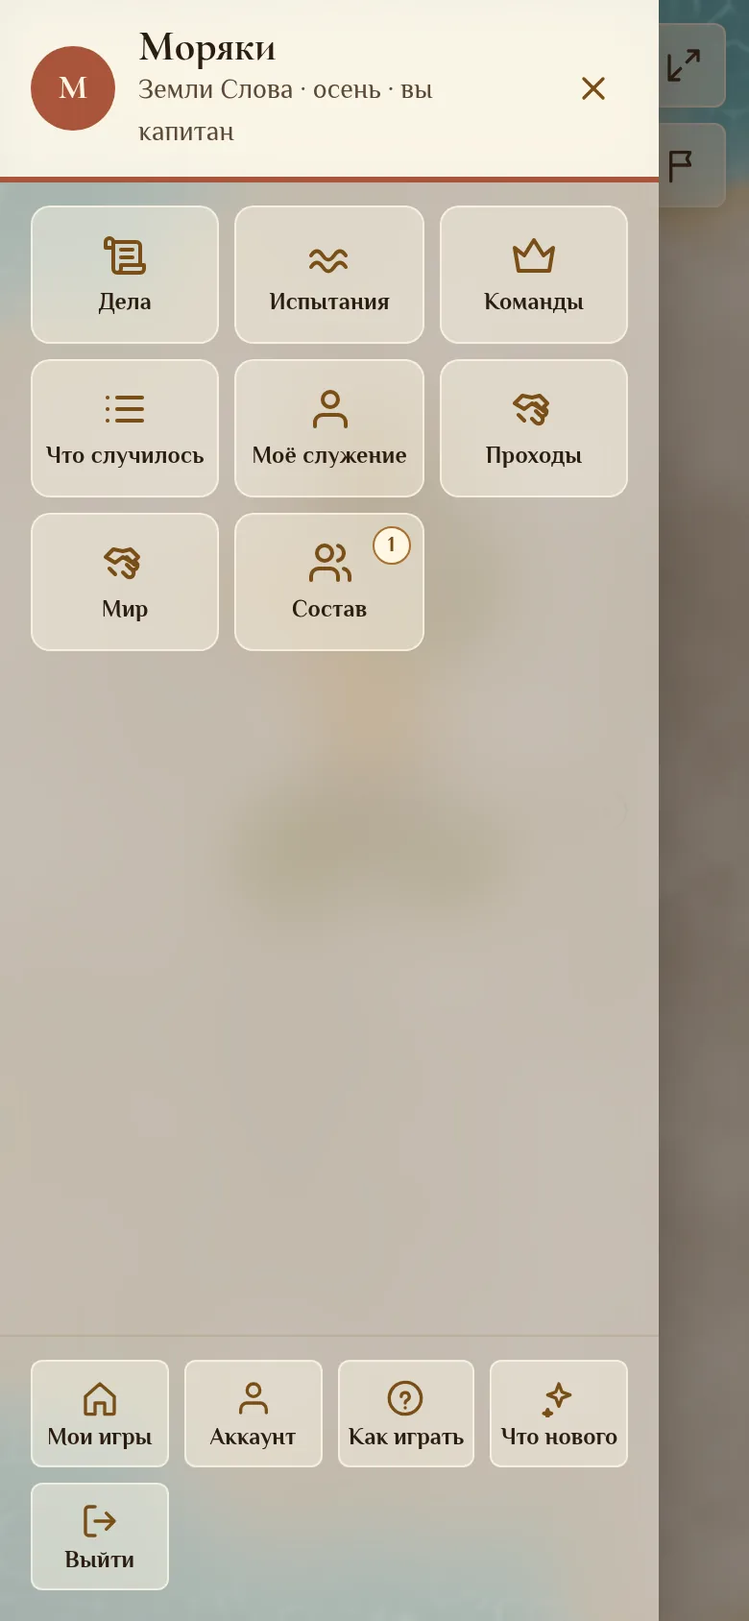
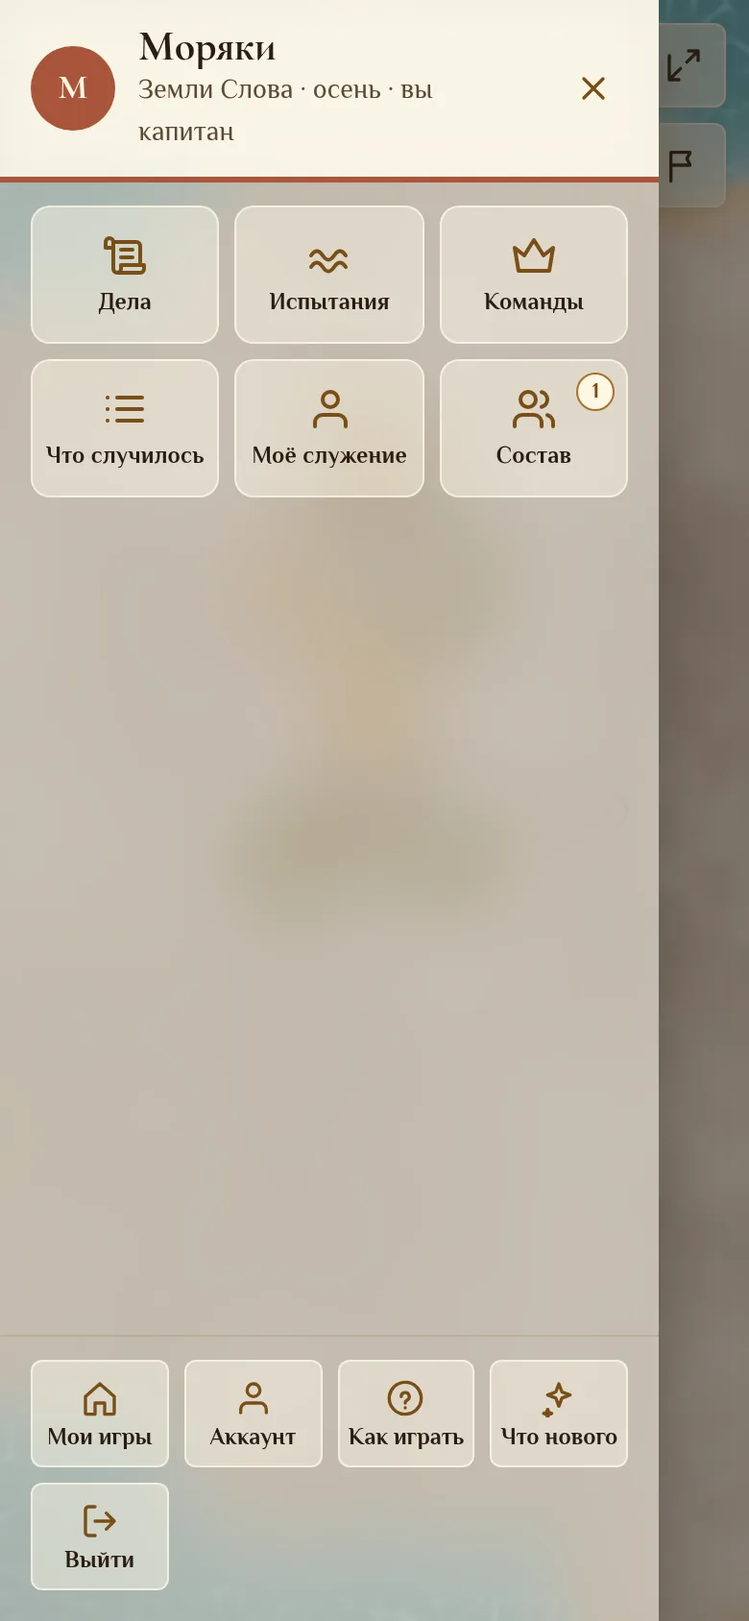
Аккаунт без карточки Google; проходы и мир внутри раздела «Команды»
- карточка «Вход через Google» в аккаунте убрана; ветка привязки (link=1) и отвязки на сервере удалены вместе с тестом — учётка с той же почтой подхватывается при входе сама
- меню команды: плитки «Проходы» и «Мир» убраны, их содержимое показывается в разделе «Команды» под таблицей; входящие запросы прохода считаются на плитке «Команды»
- тексты «Как играть», «Что нового» (RU/EN), основной документ, снимки руководства

Claude-Session: https://claude.ai/code/session_01GYZTpVpHB6EzyvMrXyiWEP

Changed region(s): [[0.0308, 0.3081, 0.5846, 0.4005], [0.6462, 0.2156, 0.7692, 0.3081], [0.7692, 0.2156, 0.8308, 0.2773]]

diff --git a/apps/web/src/lib/en/player.ts b/apps/web/src/lib/en/player.ts
@@ -61,7 +61,7 @@ export const PLAYER: Record<string, string> = {
   // Инструкция: этап 4
   "Мир. Капитан, заместитель или посол может предложить другой команде мир; та принимает или отклоняет. Пока мир действует, команды не бросают вызов городам друг друга и не объявляют осад. Мир не на срок: он действует, пока одна из сторон его не расторгнет; расторжение вступает в силу сразу, и об этом узнают все команды.": "Peace. The captain, deputy or ambassador can offer peace to another team; that team accepts or declines. While peace lasts, the teams do not challenge each other's cities and do not declare sieges. Peace has no term: it lasts until one side breaks it; the break takes effect at once, and every team learns of it.",
   "Лента «Что случилось» показывает события команды и новости обо всех испытаниях игры: кто кому бросил вызов, устоял ли город — без ставок и чисел стихов. «Моё служение» считает ваши дела, решённые районы, выученные стихи и взятые города. Раз в неделю всем приходит летопись недели. Первая команда, изучившая руины, находит знак шифра ближайшего города; над взятыми портами кружат чайки, раз в день клин птиц летит к ближайшему неоткрытому городу, дельфины сопровождают корабль.": "The “What happened” feed shows the team's events and news about every trial in the game: who challenged whom and whether the city held — without stakes or verse counts. “My service” counts your deeds, solved districts, learned verses and cities taken. Once a week everyone receives the chronicle of the week. The first team to study ruins finds a cipher sign of the nearest city; gulls circle over captured ports, once a day a wedge of birds flies to the nearest unopened city, and dolphins escort the ship.",
-  "Меню команды: лента, служение, дела, испытания, положение команд, мир, состав.": "Team menu: feed, service, deeds, trials, standings, peace, roster.",
+  "Меню команды: дела, испытания, команды, лента, служение, состав.": "Team menu: deeds, trials, teams, feed, service, roster.",
   "Доска активности в блоке «Команды» показывает, кто сколько сделал (дела, районы, стихи, города) и когда был активен. В «Летописи» — журнал событий игры и кнопка «Отправить летопись сейчас», в «Командах» — положение команд и «Книга сезона»: страница итогов для показа на собрании, её можно распечатать. В «Проверке» сдачи можно отфильтровать по команде и виду, посмотреть возраст и принять несколько однотипных разом; письма о сдачах могут приходить одним дайджестом раз в 3 часа или раз в день (продвинутые настройки).": "The activity board in the “Teams” block shows who did how much (deeds, districts, verses, cities) and when they were last active. “Overview” has the game's event log and the “Send the chronicle now” button; “Teams” has the standings and the “Season book”: a results page to show at the meeting, which can be printed. In “Review” submissions can be filtered by team and kind, their age is shown, and several of the same kind can be approved at once; submission emails can arrive as one digest every 3 hours or once a day (advanced settings).",
   // Журнал событий (этап 4 решений 18.09): лента, новости, «Моё служение», мир, доска активности, «Книга сезона»
   "Что случилось": "What happened", "Пока тихо: первые события появятся, когда команда возьмёт дело.": "Quiet so far: the first events appear when the team takes a deed.",
@@ -164,7 +164,7 @@ export const PLAYER: Record<string, string> = {
   "Конверт: когда все районы решены, печать собрана. Назовите шифр адресату, к которому вас направила игра, и получите конверт с ключом. Введите ключ в ячейки и сломайте сургуч — город ваш; неверный ключ царапает печать и ставит такую же растущую паузу. Первый взятый город — столица команды; один раз за игру капитан может тайно перенести столицу, но не пока на неё брошен вызов.": "Envelope: when all districts are solved, the seal is complete. Tell the cipher to the recipient the game sent you to and get the envelope with the key. Enter the key into the cells and break the wax — the city is yours; a wrong key scratches the seal and sets the same growing pause. The first city taken is the team's capital; once per game the captain can secretly move the capital, but not while it is under challenge.",
   "Страница города: замок с кольцами на шаге «Порядок», дальше районы с печатью и конверт.": "City page: the lock with rings at the “Order” step, then the districts with the seal and the envelope.",
   "Роли и меню команды": "Roles and the team menu",
-  "В меню команды: наши дела, испытания, положение команд, проходы, состав с ролями. Включите уведомления в аккаунте, чтобы не пропустить проверку дела, испытание или запрос прохода.": "In the team menu: our deeds, trials, standings, passages, the roster with roles. Turn notifications on in your account so you do not miss a deed review, a trial or a passage request.",
+  "В меню команды: наши дела, испытания, команды (положение, проходы, мир), состав с ролями. Включите уведомления в аккаунте, чтобы не пропустить проверку дела, испытание или запрос прохода.": "In the team menu: our deeds, trials, teams (standings, passages, peace), the roster with roles. Turn notifications on in your account so you do not miss a deed review, a trial or a passage request.",
   "Меню команды: дела, испытания, положение команд, состав.": "Team menu: deeds, trials, standings, roster.",
   "Для администратора": "For the administrator",
   "Администратор создаёт игру, генерирует карту (можно сколько угодно раз, пока не понравится), создаёт команды и раздаёт ссылки-приглашения капитанам и участникам, заполняет набор дел (есть стандартный) и стартует игру.": "The administrator creates the game, generates the map (as many times as needed until it looks right), creates teams and hands out invitation links to captains and members, fills in the set of deeds (a default set is available) and starts the game.",

diff --git a/apps/web/src/lib/en/changelog.ts b/apps/web/src/lib/en/changelog.ts
@@ -1,13 +1,13 @@
 /** EN-строки раздела «Что нового». Ключ — русская строка из content/changelog.ts. */
 export const CHANGELOG_EN: Record<string, string> = {
-  "Меню команды стало короче: наверху только то, что требует внимания (возвращённое дело, запрос прохода, ваш ход в испытании), остальное — значки разделов: Дела, Испытания, Команды, Что случилось, Моё служение, Проходы, Мир, Состав. Переключатель уведомлений — на странице аккаунта. Шапка меню больше не просвечивает при прокрутке.": "The team menu is shorter: at the top only what needs attention (a returned deed, a passage request, your move in a trial), the rest are section icons: Deeds, Trials, Teams, What happened, My service, Passages, Peace, Roster. The notifications switch is on the account page. The menu head no longer shows content through it when scrolling.",
+  "Меню команды стало короче: наверху только то, что требует внимания (возвращённое дело, запрос прохода, ваш ход в испытании), остальное — значки разделов: Дела, Испытания, Команды (положение, проходы, мир), Что случилось, Моё служение, Состав. Переключатель уведомлений — на странице аккаунта, карточки «привязать Google» там больше нет. Шапка меню больше не просвечивает при прокрутке.": "The team menu is shorter: at the top only what needs attention (a returned deed, a passage request, your move in a trial), the rest are section icons: Deeds, Trials, Teams (standings, passages, peace), What happened, My service, Roster. The notifications switch is on the account page, and the “link Google” card is gone from there. The menu head no longer shows content through it when scrolling.",
   "Раздел «Обзор» переименован в «Летопись» со значком пера; кнопки разделов и кнопки карты стали стеклянными.": "The “Overview” section is renamed “Chronicle” with a feather icon; the section buttons and map buttons are glass now.",
   "Разделы администратора: «Сейчас» убран (то же видно на кнопке «Проверка»); срок окончания, «Завершить игру» и адресаты конвертов переехали в «Настройки»; после сохранения срока показывается только дата с карандашом для правки.": "Administrator's sections: “Now” is removed (the “Review” button shows the same); the deadline, “Finish the game” and envelope recipients moved to “Settings”; after saving the deadline only the date is shown, with a pencil to edit it.",
   "Срок окончания игры задаётся без ввода по формату: дни и час со стрелками, быстрые сроки (2 недели, месяц, 6 недель, 2 месяца) и календарь по кнопке.": "The game end is set without typing a format: days and hour with arrows, quick terms (2 weeks, a month, 6 weeks, 2 months) and a calendar behind a button.",
   "У игроков тоже стекло: боковое меню команды, лист дела, город и испытание просвечивают карту сквозь размытие.": "Players get glass too: the team side menu, the deed sheet, the city and the trial show the map through a blur.",
   "Разделы администратора над картой стали настоящим стеклом: карта просвечивает сквозь попап и блоки внутри него.": "The administrator's sections over the map are now real glass: the map shows through the pop-up and the blocks inside it.",
   "Карта администратора: переключатель «чьими глазами» стал рядом кружков (корона и команды, имя по наведению), история ходов — одной плашкой «Сейчас · N ходов», которая раскрывается стрелками и ползунком по нажатию.": "Administrator's map: the “whose view” switch is now a row of circles (crown and teams, name on hover), and the move history is a single “Now · N moves” pill that expands into arrows and a slider on tap.",
-  "Вход через Google: кнопка на входе и в регистрации, почта подтверждается сразу, остаётся выбрать ник; в аккаунте можно привязать или отвязать Google. Появилась страница «О персональных данных».": "Sign in with Google: a button on the sign-in and sign-up screens, the email is confirmed at once and only a nickname remains to pick; Google can be linked or unlinked in the account. A new “About personal data” page.",
+  "Вход через Google: кнопка на входе и в регистрации, почта подтверждается сразу, остаётся выбрать ник. Появилась страница «О персональных данных».": "Sign in with Google: a button on the sign-in and sign-up screens, the email is confirmed at once and only a nickname remains to pick. A new “About personal data” page.",
   "Числовые поля (команды, перекрёстки, расстояние, ставки правил, пожертвование) стали числом со стрелками вверх/вниз вместо обычного поля.": "Numeric fields (teams, crossings, distance, rule values, donation) are now a number with up/down arrows instead of a plain field.",
   "Поле «Церковь» убрано отовсюду: игра создаётся по одному названию, команды могут быть сборными; название церкви больше не показывается на главной, в приглашении и в «Книге сезона».": "The “Church” field is gone everywhere: a game is created by its name only, teams can be mixed; the church name is no longer shown on the home page, in the invitation or in the season book.",
   "Стекло с размытием везде на страницах под шапкой: аналитика, новая игра, аккаунт; попапы разделов администратора и диалоги подтверждения тоже стеклянные. Страница игры без карты — на пейзаже с главной, а не на тёмном поле.": "Glass with blur on every page under the header: analytics, new game, account; the administrator's section pop-ups and confirmation dialogs are glass too. A game page without a map sits on the home landscape instead of a dark field.",

diff --git a/apps/api/src/routes/google.ts b/apps/api/src/routes/google.ts
@@ -3,7 +3,7 @@ import bcrypt from "bcryptjs";
 import { z } from "zod";
 import { createHmac, randomBytes, timingSafeEqual } from "node:crypto";
 import { prisma } from "../db.js";
-import { createSession, publicUser, requireUser } from "../auth.js";
+import { createSession, publicUser } from "../auth.js";
 import { err } from "../services/i18n.js";
 import { exchangeCode, GOOGLE_AUTH_URL, verifyIdToken } from "../services/google.js";
 
@@ -12,7 +12,6 @@ import { exchangeCode, GOOGLE_AUTH_URL, verifyIdToken } from "../services/google
  * Храним только почту и идентификатор Google (sub): имя и фото не запрашиваем. Вход по никнейму и паролю остаётся.
  *
  * Поток: GET /api/auth/google → Google → GET /api/auth/google/callback. Дальше три случая:
- *  - вошедший пользователь привязывает Google к своей учётке (link=1) → /account?google=linked|taken;
  *  - учётка найдена по sub или по почте → сессия, почта считается подтверждённой (её подтвердил Google);
  *  - учётки нет → короткоживущий cookie с почтой и sub, страница /google/nickname → POST /api/auth/google/complete.
  */
@@ -24,10 +23,10 @@ const ISSUERS = new Set(["accounts.google.com", "https://accounts.google.com"]);
 
 const nickname = z.string().trim().min(3).max(24).regex(/^[\p{L}\p{N}_-]+$/u, "Только буквы, цифры, _ и -");
 const completeBody = z.object({ nickname, locale: z.enum(["ru", "en"]).optional() });
-const stateQuery = z.object({ next: z.string().max(500).optional(), link: z.string().optional() });
+const stateQuery = z.object({ next: z.string().max(500).optional() });
 const callbackQuery = z.object({ code: z.string().optional(), state: z.string().optional(), error: z.string().optional() });
 
-interface StateData { s: string; next: string; link: boolean }
+interface StateData { s: string; next: string }
 interface PendingData { sub: string; email: string; exp: number }
 
 /** Только путь на нашем сайте: начинается с «/», но не «//» (иначе это адрес другого сайта). */
@@ -73,7 +72,7 @@ export async function googleRoutes(app: FastifyInstance): Promise<void> {
     if (!enabled) return reply.code(404).send({ error: "not_configured", message: err(request, "Вход через Google не настроен") });
     const q = stateQuery.parse(request.query ?? {});
     const state = randomBytes(32).toString("base64url");
-    const data: StateData = { s: state, next: safeNext(q.next), link: q.link === "1" && Boolean(request.user) };
+    const data: StateData = { s: state, next: safeNext(q.next) };
     reply.setCookie(STATE_COOKIE, JSON.stringify(data), { ...cookieBase, signed: true, maxAge: STATE_TTL_MS / 1000 });
     const url = new URL(GOOGLE_AUTH_URL);
     url.searchParams.set("client_id", cfg.GOOGLE_CLIENT_ID!);
@@ -94,7 +93,7 @@ export async function googleRoutes(app: FastifyInstance): Promise<void> {
     const unsigned = raw ? request.unsignCookie(raw) : null;
     let st: StateData | null = null;
     try { st = unsigned?.valid && unsigned.value ? (JSON.parse(unsigned.value) as StateData) : null; } catch { st = null; }
-    const fail = (code: string) => reply.redirect(`${st?.link ? "/account" : "/login"}?google=${code}`, 302);
+    const fail = (code: string) => reply.redirect(`/login?google=${code}`, 302);
     if (!st || !q.state || q.state !== st.s) return fail("state");
     if (!q.code) return fail("error");
 
@@ -112,16 +111,7 @@ export async function googleRoutes(app: FastifyInstance): Promise<void> {
       return fail("error");
     }
 
-    // а) Привязка к текущей учётке.
-    if (st.link && request.user) {
-      const me = request.user;
-      const other = await prisma.user.findFirst({ where: { NOT: { id: me.id }, OR: [{ googleId: sub }, { email: { equals: email, mode: "insensitive" } }] } });
-      if (other) return reply.redirect("/account?google=taken", 302);
-      await prisma.user.update({ where: { id: me.id }, data: { googleId: sub, ...(me.email ? {} : { email, emailVerified: true }) } });
-      return reply.redirect("/account?google=linked", 302);
-    }
-
-    // б) Учётка уже есть: по sub или по почте (Google подтвердил, что почта принадлежит человеку).
+    // а) Учётка уже есть: по sub или по почте (Google подтвердил, что почта принадлежит человеку).
     let user = await prisma.user.findUnique({ where: { googleId: sub } });
     if (!user) {
       const byEmail = await prisma.user.findFirst({ where: { email: { equals: email, mode: "insensitive" } } });
@@ -132,7 +122,7 @@ export async function googleRoutes(app: FastifyInstance): Promise<void> {
       return reply.redirect(st.next, 302);
     }
 
-    // в) Учётки нет: осталось выбрать никнейм.
+    // б) Учётки нет: осталось выбрать никнейм.
     const pending: PendingData = { sub, email, exp: Date.now() + PENDING_TTL_MS };
     reply.setCookie(PENDING_COOKIE, sign(cfg.SESSION_SECRET, pending), { ...cookieBase, maxAge: PENDING_TTL_MS / 1000 });
     return reply.redirect("/google/nickname", 302);
@@ -170,11 +160,5 @@ export async function googleRoutes(app: FastifyInstance): Promise<void> {
     clearPending(reply);
     await createSession(reply, user.id, secure);
     return reply.code(201).send({ user: publicUser(user) });
-  });
-
-  /** Отвязать Google от учётки. Вход по паролю остаётся (если пароля не было — задать через «Забыли пароль?»). */
-  app.delete("/api/auth/google", { preHandler: requireUser }, async (request) => {
-    const user = await prisma.user.update({ where: { id: request.user!.id }, data: { googleId: null } });
-    return { user: publicUser(user) };
   });
 }

diff --git a/apps/web/src/pages/TeamPage.tsx b/apps/web/src/pages/TeamPage.tsx
@@ -58,16 +58,14 @@ export function finishReasonLabel(reason: string | null): string {
   return reason === "last_team" ? t("осталась одна команда") : reason === "time_limit" ? t("вышел срок") : t("завершена администратором");
 }
 
-/** Разделы меню команды (решение владельца 21.09): на главном экране меню — только то, что требует внимания, и значки разделов. */
-type MenuView = "home" | "deeds" | "battles" | "standings" | "feed" | "service" | "passages" | "peace" | "roster";
+/** Разделы меню команды (решение владельца 21.09): на главном экране меню — только то, что требует внимания, и значки разделов. Проходы и мир — внутри «Команд». */
+type MenuView = "home" | "deeds" | "battles" | "standings" | "feed" | "service" | "roster";
 const MENU_ITEMS: Array<{ key: Exclude<MenuView, "home">; icon: string; label: () => string; hot?: boolean }> = [
   { key: "deeds", icon: "scroll", label: () => t("Дела") },
   { key: "battles", icon: "wave", label: () => t("Испытания"), hot: true },
-  { key: "standings", icon: "crown", label: () => t("Команды") },
+  { key: "standings", icon: "crown", label: () => t("Команды"), hot: true },
   { key: "feed", icon: "list", label: () => t("Что случилось") },
   { key: "service", icon: "user", label: () => t("Моё служение") },
-  { key: "passages", icon: "handshake", label: () => t("Проходы"), hot: true },
-  { key: "peace", icon: "handshake", label: () => t("Мир") },
   { key: "roster", icon: "users", label: () => t("Состав") },
 ];
 
@@ -331,7 +329,7 @@ export function TeamPage() {
   const attention = ourTasks.filter((tk) => tk.status === "REJECTED").length + incoming.length + activeBattles.filter((b) => isMyTurn(b, team.id)).length;
   const rejectedTasks = ourTasks.filter((tk) => tk.status === "REJECTED");
   const myTurnBattles = activeBattles.filter((b) => isMyTurn(b, team.id));
-  const menuCounts: Partial<Record<MenuView, number>> = { deeds: ourTasks.length, battles: activeBattles.length, passages: incoming.length, roster: team.members?.length ?? 0 };
+  const menuCounts: Partial<Record<MenuView, number>> = { deeds: ourTasks.length, battles: activeBattles.length, standings: incoming.length, roster: team.members?.length ?? 0 };
 
   const onTouchStart = (e: React.TouchEvent) => {
     if (wide) return;
@@ -380,7 +378,7 @@ export function TeamPage() {
                       </li>
                     ))}
                     {incoming.map((r) => (
-                      <li key={r.id} role="button" tabIndex={0} onClick={() => setMenuView("passages")} onKeyDown={(e) => { if (e.key === "Enter" || e.key === " ") { e.preventDefault(); setMenuView("passages"); } }}>
+                      <li key={r.id} role="button" tabIndex={0} onClick={() => setMenuView("standings")} onKeyDown={(e) => { if (e.key === "Enter" || e.key === " ") { e.preventDefault(); setMenuView("standings"); } }}>
                         <div className="main"><span className="title">{t("Запрос прохода через {book}", { book: r.bookName })}</span><span className="meta">{t("от команды «{team}»", { team: r.requester.name })}</span></div><Icon name="chevron" className="chev" />
                       </li>
                     ))}
@@ -443,13 +441,12 @@ export function TeamPage() {
             <section className="section">
             <StandingsList standings={standings} teamId={team.id} open={openStanding} setOpen={setOpenStanding} />
             {standings?.status === "ACTIVE" && standings.endsAt && <p className="hint">{t("Игра идёт до {d}", { d: fmtDate(standings.endsAt) })}</p>}
-          
             </section>
           )}
+          {menuView === "standings" && <DiplomacyMenu gameId={id} data={passages} onChanged={() => { void loadPassages(); void loadMap(); }} />}
+          {menuView === "standings" && <PeaceSection gameId={id} version={feedVersion} />}
           {menuView === "feed" && <FeedSection gameId={id} version={feedVersion} />}
           {menuView === "service" && <MyServiceSection gameId={id} version={feedVersion} />}
-          {menuView === "passages" && <DiplomacyMenu gameId={id} data={passages} onChanged={() => { void loadPassages(); void loadMap(); }} />}
-          {menuView === "peace" && <PeaceSection gameId={id} version={feedVersion} />}
           {menuView === "roster" && <section className="section"><Roster team={team} isCaptain={isCaptain} onRole={setGameRole} onDeputy={setDeputy} /></section>}
           {menuView === "home" && (
             <nav className="menu-tiles" aria-label={t("Навигация")}>

diff --git a/apps/web/src/pages/HowToPlayPage.tsx b/apps/web/src/pages/HowToPlayPage.tsx
@@ -63,9 +63,9 @@ export function HowToPlayPage() {
     { icon: "users", title: t("Роли и меню команды"), paras: [
       t("Капитан бросает вызов и отвечает на испытания, переносит столицу, назначает заместителя и просит роли для участников; роли утверждает администратор, менять их можно раз в неделю. Заместитель может всё то же, кроме ролей. Разведчик раз в неделю узнаёт, что за стороной. Пророк раз в неделю открывает подсказку к любому заданию, и видит её только он: команда спрашивает у пророка. Посол ведёт переговоры о проходах. Летописец сдаёт дела за команду. Кормчий выбирает место высадки на другом острове."),
       t("Взятое дело, не сданное за две недели, само возвращается в общий список. На карте видны чужие проходы там, где у вас открыт туман: сторона, пройденная двумя командами, окрашена пополам."),
-      t("В меню команды: наши дела, испытания, положение команд, проходы, состав с ролями. Включите уведомления в аккаунте, чтобы не пропустить проверку дела, испытание или запрос прохода."),
+      t("В меню команды: наши дела, испытания, команды (положение, проходы, мир), состав с ролями. Включите уведомления в аккаунте, чтобы не пропустить проверку дела, испытание или запрос прохода."),
       t("Лента «Что случилось» показывает события команды и новости обо всех испытаниях игры: кто кому бросил вызов, устоял ли город — без ставок и чисел стихов. «Моё служение» считает ваши дела, решённые районы, выученные стихи и взятые города. Раз в неделю всем приходит летопись недели. Первая команда, изучившая руины, находит знак шифра ближайшего города; над взятыми портами кружат чайки, раз в день клин птиц летит к ближайшему неоткрытому городу, дельфины сопровождают корабль."),
-    ], figs: [{ src: "menu", caption: t("Меню команды: лента, служение, дела, испытания, положение команд, мир, состав.") }] },
+    ], figs: [{ src: "menu", caption: t("Меню команды: дела, испытания, команды, лента, служение, состав.") }] },
     { icon: "crown", title: t("Для администратора"), paras: [
       t("Администратор создаёт игру, генерирует карту (можно сколько угодно раз, пока не понравится), создаёт команды и раздаёт ссылки-приглашения капитанам и участникам, заполняет набор дел (есть стандартный) и стартует игру."),
       t("У администратора карта во весь экран, а разделы — кнопки сбоку (на телефоне снизу): Летопись, Команды, Дела, Проверка, Настройки; нажатие открывает раздел над картой. Во время игры администратор проверяет сдачи дел и видео испытаний в «Проверке», следит за положением команд в «Обзоре» и на карте, при необходимости назначает города и завершает игру."),

diff --git a/apps/web/src/content/changelog.ts b/apps/web/src/content/changelog.ts
@@ -6,14 +6,14 @@ export interface ChangeDay { date: string; items: string[] }
 
 export const CHANGELOG: ChangeDay[] = [
   { date: "2026-09-21", items: [
-    "Меню команды стало короче: наверху только то, что требует внимания (возвращённое дело, запрос прохода, ваш ход в испытании), остальное — значки разделов: Дела, Испытания, Команды, Что случилось, Моё служение, Проходы, Мир, Состав. Переключатель уведомлений — на странице аккаунта. Шапка меню больше не просвечивает при прокрутке.",
+    "Меню команды стало короче: наверху только то, что требует внимания (возвращённое дело, запрос прохода, ваш ход в испытании), остальное — значки разделов: Дела, Испытания, Команды (положение, проходы, мир), Что случилось, Моё служение, Состав. Переключатель уведомлений — на странице аккаунта, карточки «привязать Google» там больше нет. Шапка меню больше не просвечивает при прокрутке.",
     "Раздел «Обзор» переименован в «Летопись» со значком пера; кнопки разделов и кнопки карты стали стеклянными.",
     "Разделы администратора: «Сейчас» убран (то же видно на кнопке «Проверка»); срок окончания, «Завершить игру» и адресаты конвертов переехали в «Настройки»; после сохранения срока показывается только дата с карандашом для правки.",
     "Срок окончания игры задаётся без ввода по формату: дни и час со стрелками, быстрые сроки (2 недели, месяц, 6 недель, 2 месяца) и календарь по кнопке.",
     "У игроков тоже стекло: боковое меню команды, лист дела, город и испытание просвечивают карту сквозь размытие.",
     "Разделы администратора над картой стали настоящим стеклом: карта просвечивает сквозь попап и блоки внутри него.",
     "Карта администратора: переключатель «чьими глазами» стал рядом кружков (корона и команды, имя по наведению), история ходов — одной плашкой «Сейчас · N ходов», которая раскрывается стрелками и ползунком по нажатию.",
-    "Вход через Google: кнопка на входе и в регистрации, почта подтверждается сразу, остаётся выбрать ник; в аккаунте можно привязать или отвязать Google. Появилась страница «О персональных данных».",
+    "Вход через Google: кнопка на входе и в регистрации, почта подтверждается сразу, остаётся выбрать ник. Появилась страница «О персональных данных».",
   ] },
   { date: "2026-09-20", items: [
     "Числовые поля (команды, перекрёстки, расстояние, ставки правил, пожертвование) стали числом со стрелками вверх/вниз вместо обычного поля.",

diff --git a/apps/web/src/pages/AccountPage.tsx b/apps/web/src/pages/AccountPage.tsx
@@ -1,5 +1,5 @@
 import { useEffect, useState, type FormEvent } from "react";
-import { Link, useSearchParams } from "react-router-dom";
+import { Link } from "react-router-dom";
 import { api, type User } from "../lib/api";
 import { useAuth } from "../lib/auth";
 import { useUi } from "../lib/ui";
@@ -11,8 +11,7 @@ import { Chip } from "../components/Chip";
 import { CopyField } from "../components/CopyField";
 import { Help } from "../components/Help";
 import { PushToggle } from "../components/PushToggle";
-import { GoogleMark } from "../components/GoogleMark";
-import { errorText, useProviders } from "./LoginPage";
+import { errorText } from "./LoginPage";
 
 /** Аккаунт: имя в команде, почта, язык; смена пароля; уведомления. Никнейм не меняется. У каждой формы своя ошибка. */
 export function AccountPage() {
@@ -78,7 +77,6 @@ export function AccountPage() {
         </form>
       </div>
 
-      <GoogleCard user={user} />
       <PushToggle />
       {user.platformRole === "SUPERADMIN" && <><MailTest /><ResetLinkTool /></>}
       <p className="muted small center mt-4"><Link to="/privacy">{t("О персональных данных")}</Link></p>
@@ -86,49 +84,6 @@ export function AccountPage() {
   );
 }
 
-/**
- * Вход через Google: привязать (переход на /api/auth/google?link=1, сервер вернёт ?google=linked|taken) или отвязать.
- * Показывается, только если Google настроен на сервере. Из Google хранится только почта.
- */
-function GoogleCard({ user }: { user: User }) {
-  const { refresh } = useAuth();
-  const ui = useUi();
-  const providers = useProviders();
-  const [params, setParams] = useSearchParams();
-  const [busy, setBusy] = useState(false);
-  const result = params.get("google");
-  useEffect(() => {
-    if (!result) return;
-    if (result === "linked") { ui.notify(t("Google привязан")); void refresh(); }
-    else if (result === "taken") ui.notify(t("Эта учётка Google уже привязана к другому аккаунту"), "bad");
-    else ui.notify(t("Не удалось привязать Google, попробуйте ещё раз"), "bad");
-    setParams({}, { replace: true });
-  }, [result, ui, refresh, setParams]);
-  if (!providers?.google) return null;
-  async function unlink() {
-    setBusy(true);
-    try { await api("/api/auth/google", { method: "DELETE" }); await refresh(); ui.notify(t("Google отвязан")); }
-    catch (e) { ui.notify(errorText(e), "bad"); }
-    finally { setBusy(false); }
-  }
-  return (
-    <div className="card">
-      <h2><span className="ico"><GoogleMark /></span>{t("Вход через Google")}</h2>
-      {user.googleLinked ? (
-        <>
-          <p className="mt-3">{t("Google привязан: {email}", { email: user.email ?? "" })}</p>
-          <p className="hint">{t("Вход по никнейму и паролю тоже работает. После отвязки войти можно будет только по паролю.")}</p>
-          <div className="actions"><button type="button" className="secondary" disabled={busy} onClick={() => void unlink()}>{t("Отвязать")}</button></div>
-        </>
-      ) : (
-        <>
-          <p className="hint">{t("Привяжите Google, чтобы входить одной кнопкой. Из Google мы храним только почту.")}</p>
-          <div className="actions"><a className="btn secondary google-btn" href="/api/auth/google?link=1"><GoogleMark />{t("Привязать Google")}</a></div>
-        </>
-      )}
-    </div>
-  );
-}
 
 /** Суперадмин: проверка почты (SMTP) тестовым письмом себе. */
 function MailTest() {

diff --git a/apps/api/src/google.test.ts b/apps/api/src/google.test.ts
@@ -18,7 +18,7 @@ const plain = await buildApp({ NODE_ENV: "test", SESSION_SECRET: "test-secret-pl
 const app = await buildApp({ NODE_ENV: "test", SESSION_SECRET: "test-secret-please", GOOGLE_CLIENT_ID: CLIENT_ID, GOOGLE_CLIENT_SECRET: "test-client-secret" });
 // Никнейм не длиннее 24 символов, поэтому хвост из времени укорочен.
 const nick = "gt_" + String(Date.now()).slice(-8);
-const subs = { fresh: `sub_${nick}_1`, byMail: `sub_${nick}_2`, link: `sub_${nick}_3` };
+const subs = { fresh: `sub_${nick}_1`, byMail: `sub_${nick}_2` };
 
 beforeAll(async () => { await plain.ready(); await app.ready(); });
 afterAll(async () => {
@@ -163,38 +163,5 @@ describe("вход через Google", () => {
     expect((await prisma.user.findUniqueOrThrow({ where: { googleId: subs.byMail } })).nickname).toBe(n2);
     // Вход по паролю остаётся.
     expect((await app.inject({ method: "POST", url: "/api/auth/login", payload: { nickname: n2, password: "secret123" } })).statusCode).toBe(200);
-  });
-
-  it("привязка из аккаунта (link=1): linked, занятый sub — taken, отвязка — DELETE", async () => {
-    const n3 = `${nick}_link`;
-    const reg = await registerVerified(app, { nickname: n3, password: "secret123" });
-    expect(reg.statusCode).toBe(201);
-    const session = cookiesOf(reg);
-    expect((await app.inject({ method: "GET", url: "/api/auth/me", headers: { cookie: session } })).json().user.googleLinked).toBe(false);
-    // Google-почта отличается от почты учётки: привязывается по sub, почта в учётке не меняется.
-    const { state, cookie } = await start("?link=1", session);
-    googleSays(subs.link, `${n3}_google@example.com`);
-    const cb = await app.inject({ method: "GET", url: `/api/auth/google/callback?code=c&state=${state}`, headers: { cookie } });
-    expect(cb.headers.location).toBe("/account?google=linked");
-    const me = await app.inject({ method: "GET", url: "/api/auth/me", headers: { cookie: session } });
-    expect(me.json().user).toMatchObject({ googleLinked: true, email: `${n3}@example.com` });
-    // Другая учётка пытается привязать тот же Google — занято.
-    const n4 = `${nick}_link2`;
-    const reg4 = await registerVerified(app, { nickname: n4, password: "secret123" });
-    expect(reg4.statusCode).toBe(201);
-    const session4 = cookiesOf(reg4);
-    const s4 = await start("?link=1", session4);
-    googleSays(subs.link, `${n3}_google@example.com`);
-    expect((await app.inject({ method: "GET", url: `/api/auth/google/callback?code=c&state=${s4.state}`, headers: { cookie: s4.cookie } })).headers.location).toBe("/account?google=taken");
-    expect((await app.inject({ method: "GET", url: "/api/auth/me", headers: { cookie: session4 } })).json().user.googleLinked).toBe(false);
-    // Ошибка state в режиме привязки ведёт в аккаунт.
-    const s5 = await start("?link=1", session4);
-    expect((await app.inject({ method: "GET", url: "/api/auth/google/callback?code=c&state=wrong", headers: { cookie: s5.cookie } })).headers.location).toBe("/account?google=state");
-    // Отвязка.
-    expect((await app.inject({ method: "DELETE", url: "/api/auth/google" })).statusCode).toBe(401);
-    const del = await app.inject({ method: "DELETE", url: "/api/auth/google", headers: { cookie: session } });
-    expect(del.statusCode).toBe(200);
-    expect(del.json().user.googleLinked).toBe(false);
-    expect(await prisma.user.findUnique({ where: { googleId: subs.link } })).toBeNull();
   });
 });

diff --git a/apps/web/src/lib/en/guest.ts b/apps/web/src/lib/en/guest.ts
@@ -14,13 +14,6 @@ export const GUEST: Record<string, string> = {
   "Из Google мы храним только почту: имя и фото не запрашиваем.": "From Google we keep only your email: no name or photo is requested.",
   "3–24 символа: буквы, цифры, _ и -": "3–24 characters: letters, digits, _ and -",
   "Никнейм видят другие игроки, потом его не изменить.": "Other players see your nickname; it cannot be changed later.",
-  "Вход через Google": "Sign in with Google", "Google привязан": "Google linked", "Google отвязан": "Google unlinked",
-  "Google привязан: {email}": "Google linked: {email}",
-  "Эта учётка Google уже привязана к другому аккаунту": "This Google account is already linked to another account",
-  "Не удалось привязать Google, попробуйте ещё раз": "Could not link Google, please try again",
-  "Вход по никнейму и паролю тоже работает. После отвязки войти можно будет только по паролю.": "Signing in with nickname and password works too. After unlinking, only the password sign-in remains.",
-  "Отвязать": "Unlink", "Привязать Google": "Link Google",
-  "Привяжите Google, чтобы входить одной кнопкой. Из Google мы храним только почту.": "Link Google to sign in with one button. From Google we keep only your email.",
   "О персональных данных": "About personal data",
   "Мы храним столько данных, сколько нужно игре, и ничего сверх этого.": "We keep as much data as the game needs and nothing more.",
   "Что мы храним": "What we keep",

diff --git a/docs/LANDS_OF_THE_WORD.md b/docs/LANDS_OF_THE_WORD.md
@@ -421,7 +421,7 @@
 - ✅ **Подтверждение почты при регистрации (решение владельца 16.09).** Почта обязательна: регистрация — никнейм, пароль, почта. Сразу после регистрации на почту уходит письмо со ссылкой `/verify/<токен>` (одноразовая, живёт сутки; в базе только хеш токена, как у сброса пароля). Пока почта не подтверждена, учётка есть и вход работает, но все игровые запросы отвечают `403 email_unverified`, а вместо любой страницы (в том числе приглашения в команду) показывается «Подтвердите почту»: куда ушло письмо, «Отправить ещё раз», «Ошиблись в почте? Изменить», «Выйти»; страница сама проверяет раз в несколько секунд, не подтвердили ли уже с другого устройства. Ссылку можно открыть и без входа — сервер подтверждает и входит. Смена почты в аккаунте снова требует подтверждения (новое письмо, старая ссылка перестаёт работать); убрать почту совсем нельзя. Учётки, созданные до этого правила, считаются подтверждёнными (миграция), даже если почты в них нет. Если SMTP на сервере не настроен, письмо уйти не может — тогда почта считается подтверждённой сразу (нужно только для локальной разработки; на боевом сервере SMTP настроен). Смысл: владелец учётки — тот, кто владеет почтой; иначе при потере пароля некому доказать, чья это учётка.
 - ✅ **Восстановление пароля (реализовано).** На странице входа — «Забыли пароль?»: по никнейму или почте на адрес из учётки уходит письмо со ссылкой на новый пароль (ссылка одноразовая, живёт 1 час; ответ сайта одинаков, есть такая учётка или нет, чтобы никнеймы нельзя было перебирать). После смены пароля все старые сессии закрываются. ✅ **Администратор игры сбрасывать пароли не может** (решение владельца): без почты в учётке пароль восстановить нельзя, поэтому интерфейс настойчиво просит указать почту. Ссылку сброса вручную может выдать только суперадмин (владелец платформы) через API. Настройка SMTP — `deploy/README.md`.
 - ✅ **Почта обязательна и подтверждается** (см. выше); кроме никнейма и почты персональных данных не требуется, имя — по желанию. Участник сам придумывает **никнейм**; учётка = никнейм + пароль + почта. На почту приходят уведомления и восстановление пароля.
-- ✅ **Вход через Google (решение владельца 21.09):** на странице входа и регистрации — кнопка «Войти через Google» (OpenID Connect, authorization-code flow; показывается, только если на сервере заданы `GOOGLE_CLIENT_ID` и `GOOGLE_CLIENT_SECRET`, см. `deploy/README.md`). Из Google берём только почту и идентификатор учётки (`sub`, scope `openid email`): имя и фото не запрашиваются и не хранятся. Почта, подтверждённая Google, считается подтверждённой сразу — письмо не шлём. Если учётки с такой почтой нет, остаётся выбрать никнейм (страница `/google/nickname`, те же правила, что при регистрации); пароля у такой учётки нет, задать его можно через «Забыли пароль?». Если учётка с такой почтой уже есть — вход в неё и привязка Google. В аккаунте Google можно привязать (`/api/auth/google?link=1`; если этот Google уже привязан к другой учётке — отказ) или отвязать; вход по никнейму и паролю остаётся всегда. Защита: случайный `state` в подписанном HttpOnly-cookie (10 минут), `id_token` проверяется через Google tokeninfo (aud, iss, exp, email_verified), незавершённый вход живёт 15 минут в подписанном cookie. Появилась публичная страница `/privacy` «О персональных данных»: что храним, чего не храним, кто что видит, как удалить, cookie; ссылки на неё — на странице входа и в аккаунте.
+- ✅ **Вход через Google (решение владельца 21.09):** на странице входа и регистрации — кнопка «Войти через Google» (OpenID Connect, authorization-code flow; показывается, только если на сервере заданы `GOOGLE_CLIENT_ID` и `GOOGLE_CLIENT_SECRET`, см. `deploy/README.md`). Из Google берём только почту и идентификатор учётки (`sub`, scope `openid email`): имя и фото не запрашиваются и не хранятся. Почта, подтверждённая Google, считается подтверждённой сразу — письмо не шлём. Если учётки с такой почтой нет, остаётся выбрать никнейм (страница `/google/nickname`, те же правила, что при регистрации); пароля у такой учётки нет, задать его можно через «Забыли пароль?». Если учётка с такой почтой уже есть — вход в неё, Google запоминается за ней сам. Отдельной карточки «привязать/отвязать Google» в аккаунте нет (решение владельца 21.09); вход по никнейму и паролю остаётся всегда. Защита: случайный `state` в подписанном HttpOnly-cookie (10 минут), `id_token` проверяется через Google tokeninfo (aud, iss, exp, email_verified), незавершённый вход живёт 15 минут в подписанном cookie. Появилась публичная страница `/privacy` «О персональных данных»: что храним, чего не храним, кто что видит, как удалить, cookie; ссылки на неё — на странице входа и в аккаунте.
 - ✅ Учётки создаёт админ игры или участник регистрируется по **ссылке-приглашению** от админа (никнейм + пароль).
 
 ### 4.1 Аналитика платформы (суперадмин)
@@ -809,6 +809,7 @@ npm run typecheck
 - ✅ **Разделы администратора (решение владельца 21.09):** «Летопись» (бывший «Обзор», значок пера: подготовка к старту в черновике, журнал событий в игре), «Команды», «Дела», «Проверка», «Настройки» (настройки игры, срок окончания и «Завершить игру», адресаты конвертов, администраторы, уведомления). Блок «Сейчас» убран: то же число видно на кнопке «Проверка». Срок окончания после сохранения показывается одной строкой с карандашом для правки.
 - ✅ **Без поля «Церковь» (решение владельца 20.09):** игра создаётся по одному названию, команды могут быть сборными из разных церквей; название организации нигде не показывается (сущность Org в базе остаётся с названием по умолчанию). Числовые поля настроек — число со стрелками вверх/вниз. Кнопок «+/−» на карте нет: щипок и колёсико, справа только «вся карта» и «к старту».
 - ✅ **Легче и светлее (решения владельца 19–20.09):** мелкие элементы без монет, двойных рамок и текстур (правила — `docs/design/DESIGN.md` §2b, разбор — `docs/design/audit-light-2026-09-19.md`); ничего тёмного: шапка без полосы (название, раздел, аккаунт прямо на фоне), голова меню команды и всплывающие сообщения — светлый лист. **Фон страниц** — сгенерированный светлый пейзаж с высоты под углом ~45°: гексовое поле с лугами, рощами, полосками пустыни, оазисом, рекой и горами в дымке, пастельный, малоконтрастный, под молочной пеленой (`apps/web/public/img/ui/bg-land-wide.webp` для компьютера, `bg-land-tall.webp` для телефона; промпт — в `scratchpad`-скрипте генерации, стиль: «акварель на пергаменте, центр кадра свободен от ярких деталей, без людей, зданий и текста»). На экранах карты фон не виден.
+- ✅ **Меню команды (решение владельца 21.09):** наверху только «Требует внимания» (возвращённое дело, входящий запрос прохода, наш ход в испытании), ниже — значки шести разделов: Дела, Испытания, Команды (положение команд, проходы, мир — всё в одном разделе), Что случилось, Моё служение, Состав. Отдельных плиток «Проходы», «Мир» и «Уведомления» нет: уведомления включаются в аккаунте, Google к учётке привязывать/отвязывать не нужно (карточка из аккаунта убрана).
 - ✅ **Оформление «игра, а не сайт» (решение владельца 18.09):** белые фоны и «офисные» блоки заменены материалами игры — пергамент (карточки, шторки, меню), тёмное дерево (шапка, голова меню, док администратора на телефоне), бронза (кнопки, монеты номеров и счётчиков, иконки заголовков), сургуч (опасные кнопки, метки «выбыла/возвращено», печать «выполнено»), лён (плитки администратора), камень (неактивное). Заголовки — Cormorant Garamond, чтение — Literata, интерфейс — Philosopher. Пояснения и правила спрятаны за кнопку «?» (компонент Help) и раскрывашки; на виду остаётся состояние игры: что делать сейчас, сроки, предупреждения. Карточки районов — одна строка (номер · название · стихи · статус), пересказ — по переключателю «Пересказ»; карточка дела — суть, потом кнопка, потом «Кодекс дела». Подробно — `docs/design/DESIGN.md` §2a; отчёт «было/стало» — `docs/reports/ui-atmosphere-2026-09-18`.
 
 - **Ребро с делом:** карточка при нажатии: название дела, направление, что нужно сдать, кнопка «взять».
